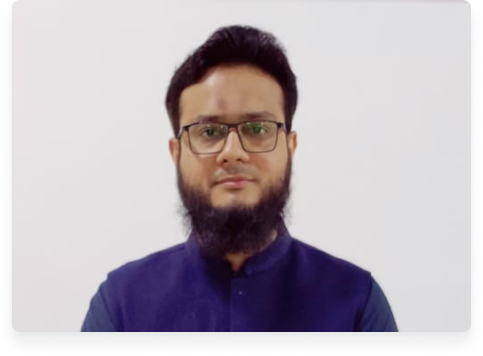
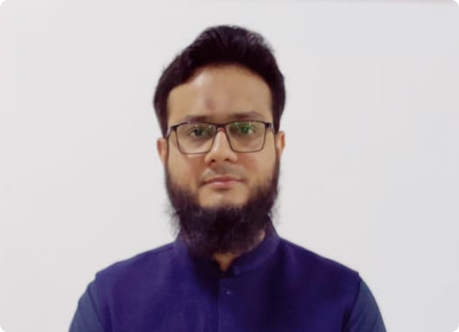
first commit

Changed region(s): [[0.0, 0.0, 1.0, 1.0], [0.427, 0.0602, 0.5795, 0.1506], [0.3965, 0.1205, 0.427, 0.1506]]

diff --git a/src/Components/Map.js b/src/Components/Map.js
@@ -9,7 +9,7 @@ const Map = () => {
                 <div className='max-sm:order-1 '> 
                     <div className='bg-blue-500 rounded-xl text-white xl:w-[541px] xl:h-[239px] xl:py-[47px] xl:px-[32px]  lg:w-[362px] lg:h-[200px] lg:px-[13px] lg:py-[26px] md:w-[362px] md:h-[200px] md:px-[10px] md:py-[20px] max-sm:px-3 max-sm:py-10'>
                         <div className='text-[30px] font-semibold max-sm:text-[24px]'><span className='mr-3'><i class="fa-solid fa-binoculars fa-fade"></i></span>Our Vision </div>
-                        <div className=' text-[18px] md:text-[16px] max-sm:text-[16px] font-normal xl:w-[400px]'>Our vision is to build a world where every young individual has the skills and knowledge to thrive in the digital age. We aim to be a catalyst for global innovation and socio-economic development.</div>
+                        <div className=' text-[18px] md:text-[16px] max-sm:text-[16px] leading-7 font-normal xl:w-[480px]'>Our vision is to build a world where every young individual has the skills and knowledge to thrive in the digital age. We aim to be a catalyst for global innovation and socio-economic development.</div>
                     </div>
 
                     <div className='bg-red-500 text-white rounded-xl mt-2 xl:py-[47px] xl:px-[32px] xl:w-[541px] xl:h-[311px] lg:w-[362px] lg:h-[250px] lg:px-[13px] lg:py-[26px] md:w-[362px] md:h-[250px] md:px-[10px] md:py-[20px]  max-sm:px-3 max-sm:py-10'>

diff --git a/src/Components/Testimonial.js b/src/Components/Testimonial.js
@@ -2,13 +2,14 @@ import React from 'react'
 import { ownersdata } from './Data'
 
 const Testimonial = () => {
-    return (
-<div className='flex justify-center p-10 max-sm:p-4'>
+  return (
+    <>
+     <div className='flex  justify-center p-10 max-sm:p-4'>
   <div className='grid grid-cols-2 max-sm:grid-cols-1 gap-4'>
     {ownersdata.map((items ,  index) => (
       <div key={index} className="block rounded-lg bg-white shadow-[0_2px_15px_-3px_rgba(0,0,0,0.07),0_10px_20px_-2px_rgba(0,0,0,0.04)] dark:bg-neutral-700">
         <a href="#!">
-          <img className="rounded-lg w-full p-1"  src={items.image} alt="" />
+          <img className="p-3"  src={items.image} alt="" />
         </a>
         <div className="p-6">
           <h5 className="mb-2 text-xl font-medium leading-tight text-neutral-800 dark:text-neutral-50">
@@ -25,8 +26,8 @@ const Testimonial = () => {
     ))}
   </div>
 </div>
-
-    )
+    </>
+  )
 }
 
 export default Testimonial

diff --git a/src/Screens/Home.js b/src/Screens/Home.js
@@ -137,7 +137,7 @@ const Home = () => {
           </section> */}
 
           {/* Section-3 */}
-          <section className=' lg:px-[80px] max-sm:mt-8 '>
+          <section className=' max-sm:mt-8 '>
             <div class="grid md:p-5 lg:space-y-5">
               <div class=" flex justify-center" data-aos="fade-up" data-aos-delay="300" >
                 <p id='journey' className='lgh  dark:text-white'>Our Journey to success</p>

diff --git a/src/Components/Data.js b/src/Components/Data.js
@@ -551,7 +551,7 @@ export const ownersdata  = [
     name:"Suleman Ikram",
     designation:"Co-Founder & Director",
     linkdin:<i class="fa-brands fa-linkedin"></i>,
-    twitter:<i class="fa-brands fa-twitter"></i>
+    twitter:<i class="fa-brands fa-twitter"><a href="www.facebook.com"></a></i>
 
   },
 ]
